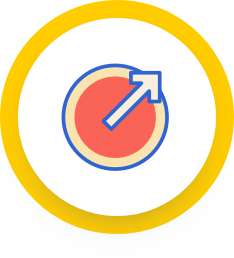
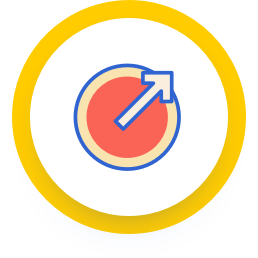
Fix tabbar on s8

diff --git a/app/screens/common/MangoTabBar.js b/app/screens/common/MangoTabBar.js
@@ -51,8 +51,8 @@ export default class MangoTabBar extends Component {
             onPress={() => this._onTabPress(0)}
           >
             <Image
-              style={[styles.tab, activeTab === 0 ? styles.tabActive : {}]}
-              resizeMode="center"
+              style={activeTab === 0 ? styles.tabActive : styles.tab}
+              resizeMode="stretch"
               source={activeTab === 0 ? MangoTabImages.dashboardTabFocused : MangoTabImages.dashboardTab}
             />
           </TouchableOpacity>
@@ -61,8 +61,8 @@ export default class MangoTabBar extends Component {
             onPress={() => this._onTabPress(1)}
           >
             <Image
-              style={[styles.tab, activeTab === 1 ? styles.tabActive : {}]}
-              resizeMode="center"
+              style={activeTab === 1 ? styles.centerTabActive : styles.centerTab}
+              resizeMode="stretch"
               source={activeTab === 1 ? MangoTabImages.requestTabFocused : MangoTabImages.requestTab}
             />
           </TouchableOpacity>
@@ -71,8 +71,8 @@ export default class MangoTabBar extends Component {
             onPress={() => this._onTabPress(2)}
           >
             <Image
-              style={[styles.tab, activeTab === 2 ? styles.tabActive : {}]}
-              resizeMode="center"
+              style={activeTab === 2 ? styles.centerTabActive : styles.centerTab}
+              resizeMode="stretch"
               source={activeTab === 2 ? MangoTabImages.sendTabFocused : MangoTabImages.sendTab}
             />
           </TouchableOpacity>
@@ -81,8 +81,8 @@ export default class MangoTabBar extends Component {
             onPress={() => this._onTabPress(3)}
           >
             <Image
-              style={[styles.tab, activeTab === 3 ? styles.tabActive : {}]}
-              resizeMode="center"
+              style={activeTab === 3 ? styles.tabActive : styles.tab}
+              resizeMode="stretch"
               source={activeTab === 3 ? MangoTabImages.transactionTabFocused : MangoTabImages.transactionTab}
             />
           </TouchableOpacity>
@@ -97,6 +97,20 @@ const { width, height } = Dimensions.get('window');
 const tabbarHeight = scale(119);
 const tabbarTop = height - tabbarHeight - CommonSize.headerHeight - UIUtils.getStatusBarHeight()
                   + UIUtils.getIphoneXBottomInsetHeight() - UIUtils.getBottomInsetHeight();
+
+const tabStyle = {
+  width: scale(48),
+  height: scale(48),
+  marginLeft: scale(15),
+  marginRight: scale(15),
+}
+
+const activeTabStyle = {
+  width: scale(86),
+  height: scale(86),
+  marginLeft: -scale(4),
+  marginRight: -scale(4),
+}
 
 const styles = ScaledSheet.create({
   tabbar: {
@@ -115,8 +129,8 @@ const styles = ScaledSheet.create({
     backgroundColor: '#0000',
   },
   tabs: {
-    flex: 1,
     width: '100%',
+    height: '100@s',
     marginTop: '20@s',
     flexDirection: 'row',
     justifyContent: 'center',
@@ -126,12 +140,19 @@ const styles = ScaledSheet.create({
     left: 0,
   },
   tab: {
-    width: '86@s',
-    height: '86@s',
-    marginLeft: -scale(4),
-    marginRight: -scale(4),
+    ...tabStyle,
+    marginTop: '2@s'
   },
   tabActive: {
-    marginTop: '5@s',
+    ...activeTabStyle,
+    marginTop: '18@s'
   },
+  centerTab: {
+    ...tabStyle,
+    marginBottom: '2@s'
+  },
+  centerTabActive: {
+    ...activeTabStyle,
+    marginTop: '10@s'
+  }
 });
